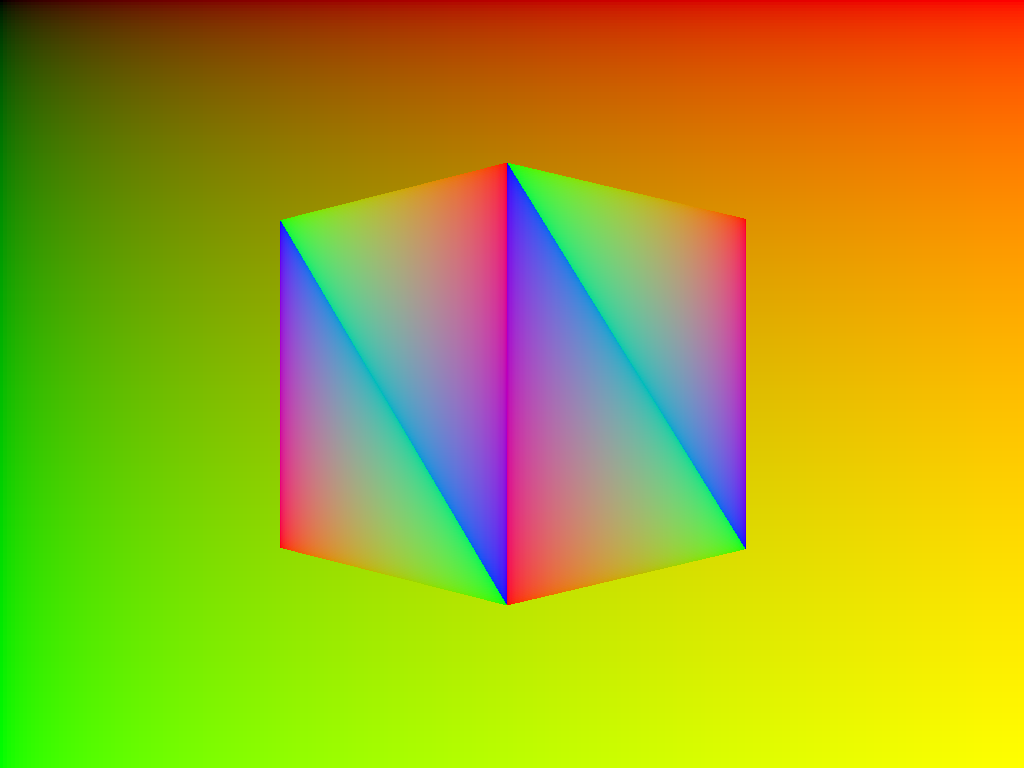
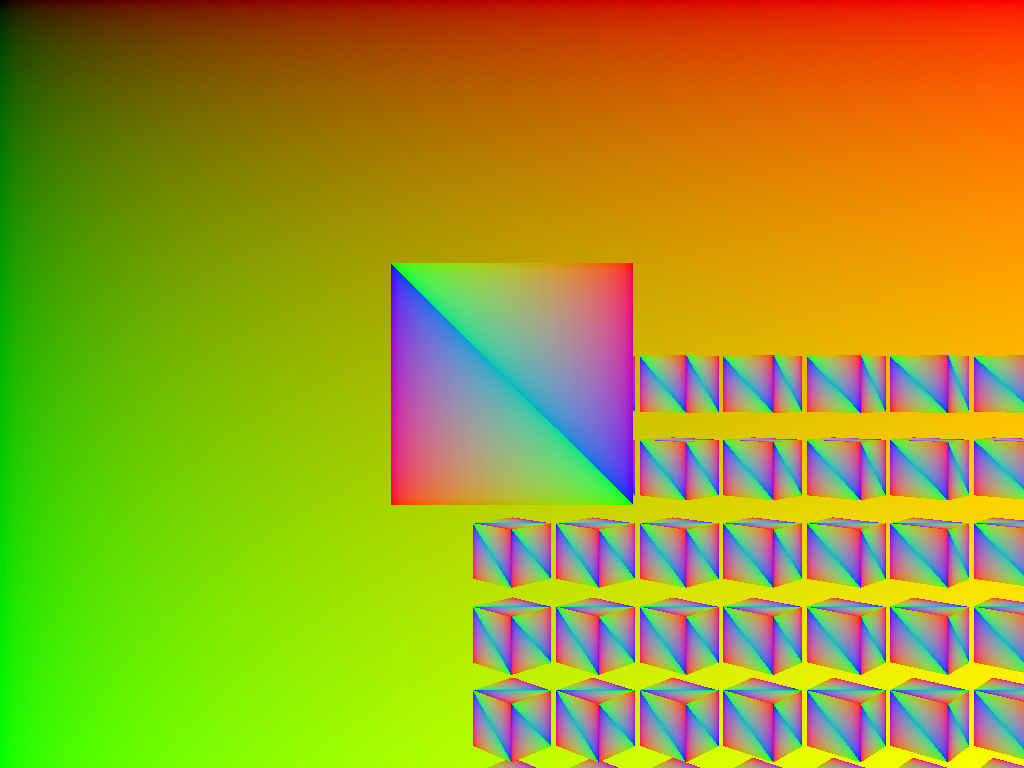
instances in examples + barrier "fix"

diff --git a/wgpu/examples/ray-cube/main.rs b/wgpu/examples/ray-cube/main.rs
@@ -281,6 +281,8 @@ impl framework::Example for Example {
         device: &wgpu::Device,
         queue: &wgpu::Queue,
     ) -> Self {
+        let side_count = 8;
+
         let rt_target = device.create_texture(&wgpu::TextureDescriptor {
             label: Some("rt_target"),
             size: wgpu::Extent3d {
@@ -376,7 +378,7 @@ impl framework::Example for Example {
             label: None,
             flags: wgpu::AccelerationStructureFlags::PREFER_FAST_TRACE,
             update_mode: wgpu::AccelerationStructureUpdateMode::Build,
-            max_instances: 1,
+            max_instances: side_count*side_count,
         });
 
         let shader = device.create_shader_module(wgpu::ShaderModuleDescriptor {
@@ -456,21 +458,31 @@ impl framework::Example for Example {
             ],
         });
 
-        let mut tlas_package = wgpu::TlasPackage::new(tlas, 1);
+        let mut tlas_package = wgpu::TlasPackage::new(tlas, side_count * side_count);
 
-        *tlas_package.get_mut_single(0).unwrap() = Some(wgpu::TlasInstance::new(
-            &blas,
-            AccelerationStructureInstance::affine_to_rows(&Affine3A::from_rotation_translation(
-                Quat::from_rotation_x(45.9_f32.to_radians()),
-                Vec3 {
-                    x: 0.0,
-                    y: 0.0,
-                    z: -3.0,
-                },
-            )),
-            0,
-            0xff,
-        ));
+        let dist = 3.0;
+
+        for x in 0..side_count {
+            for y in 0..side_count {
+                *tlas_package
+                    .get_mut_single((x + y * side_count) as usize)
+                    .unwrap() = Some(wgpu::TlasInstance::new(
+                    &blas,
+                    AccelerationStructureInstance::affine_to_rows(
+                        &Affine3A::from_rotation_translation(
+                            Quat::from_rotation_x(45.9_f32.to_radians()),
+                            Vec3 {
+                                x: x as f32 * dist,
+                                y: y as f32 * dist,
+                                z: -30.0,
+                            },
+                        ),
+                    ),
+                    0,
+                    0xff,
+                ));
+            }
+        }
 
         let mut encoder =
             device.create_command_encoder(&wgpu::CommandEncoderDescriptor { label: None });
@@ -575,7 +587,7 @@ impl framework::Example for Example {
                 Vec3 {
                     x: 0.0,
                     y: 0.0,
-                    z: -3.0,
+                    z: -6.0,
                 },
             ));
 
